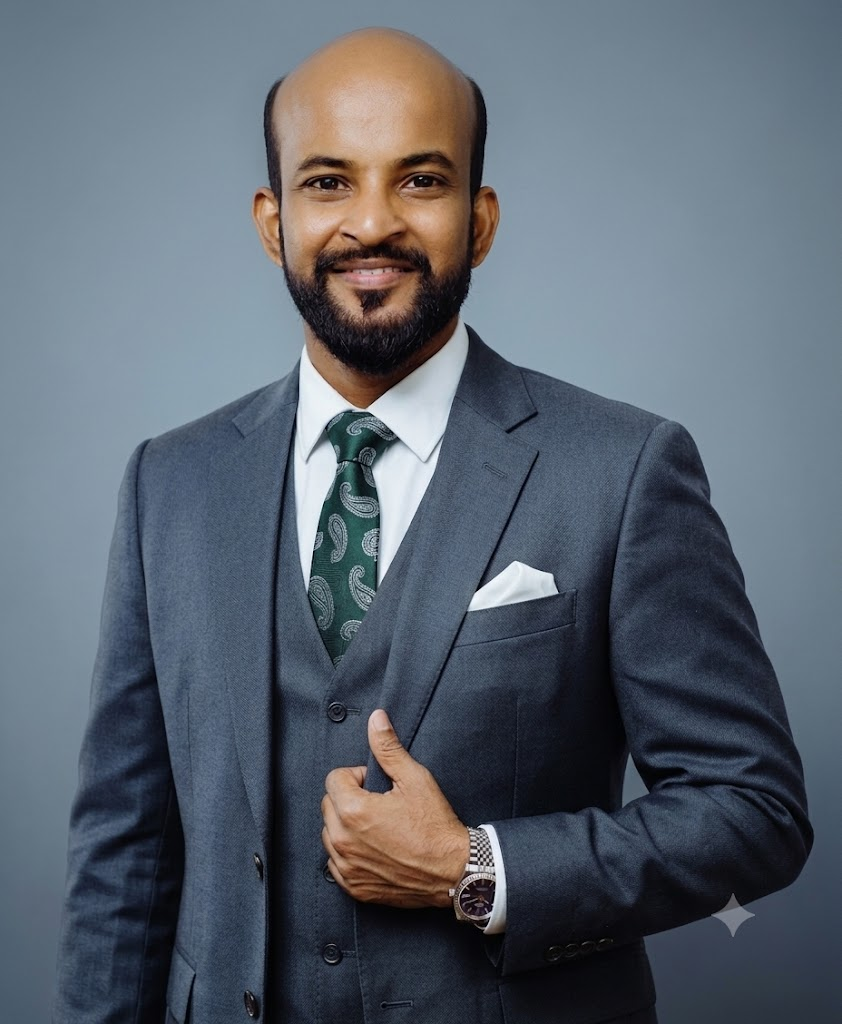
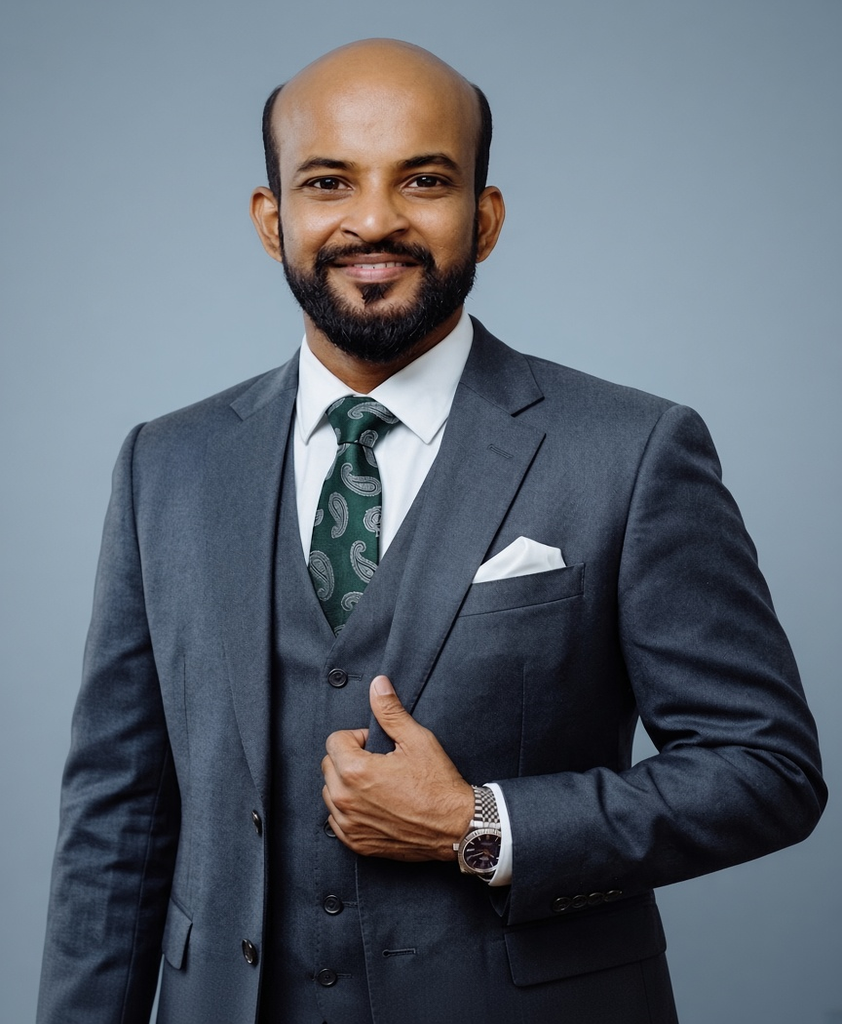
Update People portraits: clean CEO photo and matched Swetha background.

diff --git a/People.html b/People.html
@@ -1291,7 +1291,7 @@
                                             <div class="flip-card-front">
                                                 <div class="flip-card__image-wrap">
                                                     <img
-                                                        src="images/ceo-ganesh-babu.png"
+                                                        src="images/ceo-ganesh-babu.png?v=nowm"
                                                         alt="Ganesh Babu, Chief Executive Officer"
                                                         class="flip-card__image"
                                                         loading="lazy" />
@@ -1339,7 +1339,7 @@
                                                 <div class="flip-card-front">
                                                     <div class="flip-card__image-wrap">
                                                         <img
-                                                            src="images/swetha-portrait.png"
+                                                            src="images/swetha-portrait.png?v=bgmatch"
                                                             alt="Swetha, Chief Financial Officer"
                                                             class="flip-card__image"
                                                             loading="lazy" />
